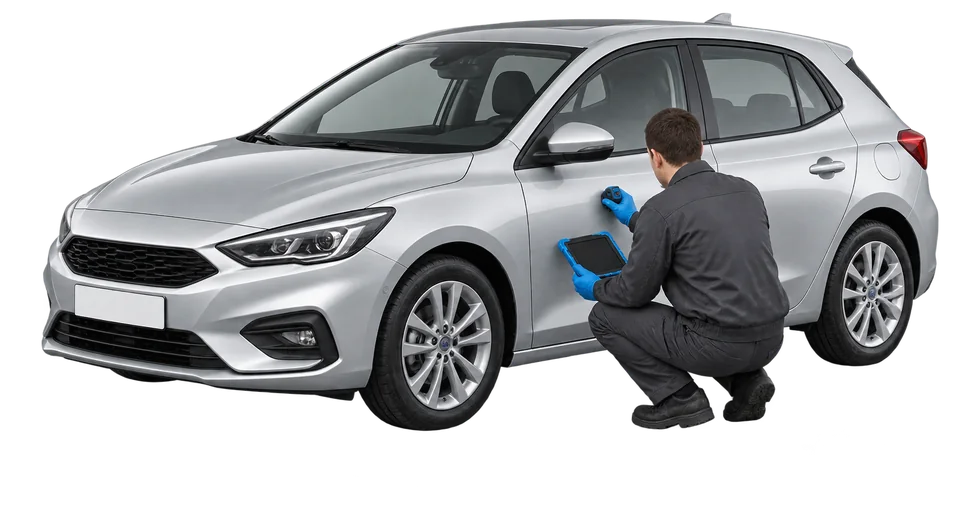
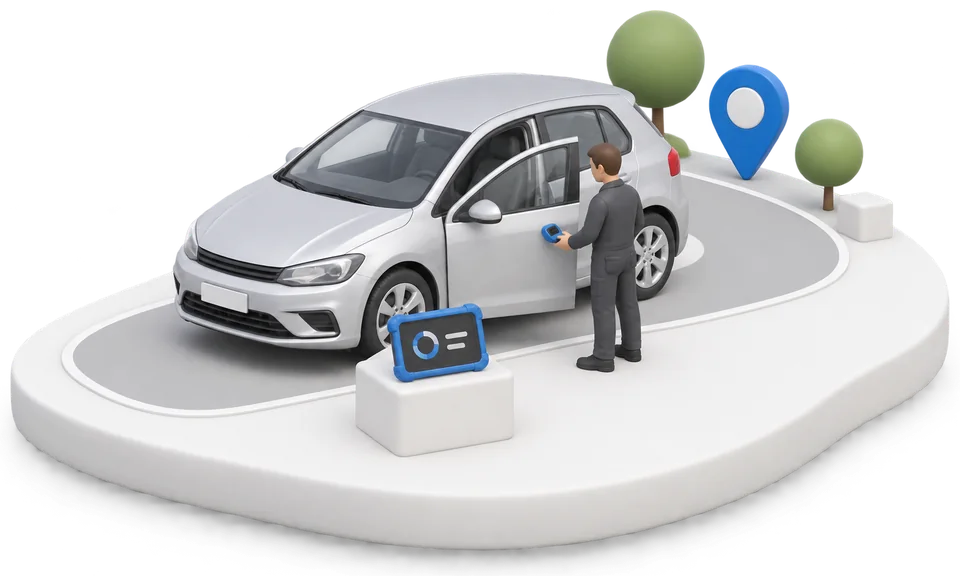
Use the services-page style for the homepage hero and offer art
Replace the photoreal hero and offer renders with isometric clay
dioramas that match the /paslaugos/ illustrations. Re-anchor the
leader line on the diagnostic tablet, let the odometer card overlap
only the platform's front rim, and move the scope hotspots onto the
new car's door, wheels and dashboard.

Claude-Session: https://claude.ai/code/session_01T7J35fzM6ZDxpdZVZvpdV4

diff --git a/index.html b/index.html
@@ -33,8 +33,8 @@
   <link rel="preload" href="/assets/fonts/Inter-latin-ext.woff2" as="font" type="font/woff2" crossorigin>
   <link rel="preload" href="/assets/fonts/Inter-latin.woff2" as="font" type="font/woff2" crossorigin>
 
-  <link rel="preload" href="/assets/images/home-hero.webp" as="image" type="image/webp" imagesrcset="/assets/images/home-hero-960.webp 960w, /assets/images/home-hero.webp 1536w" imagesizes="(min-width: 1000px) 47vw, (min-width: 700px) 692px, 100vw" fetchpriority="high">
-  <link rel="stylesheet" href="/css/styles.css?v=20261023-2">
+  <link rel="preload" href="/assets/images/home-hero.webp" as="image" type="image/webp" imagesrcset="/assets/images/home-hero-960.webp 960w, /assets/images/home-hero.webp 1486w" imagesizes="(min-width: 1000px) 47vw, (min-width: 700px) 692px, 100vw" fetchpriority="high">
+  <link rel="stylesheet" href="/css/styles.css?v=20261023-3">
   <script src="/js/cookie-consent.js?v=20261014-4"></script>
 
   <!-- Early language detection to prevent flash of wrong language -->
@@ -77,8 +77,8 @@
         </div>
 
         <div class="home-hero-art" data-hero-art>
-          <div class="home-hero-illustration" aria-hidden="true" data-anchor-x="61.5" data-anchor-y="48">
-            <img src="/assets/images/home-hero.webp" srcset="/assets/images/home-hero-960.webp 960w, /assets/images/home-hero.webp 1536w" sizes="(min-width: 1000px) 47vw, (min-width: 700px) 692px, 100vw" alt="" width="1536" height="843" fetchpriority="high" decoding="async">
+          <div class="home-hero-illustration" aria-hidden="true" data-anchor-x="45.2" data-anchor-y="60">
+            <img src="/assets/images/home-hero.webp" srcset="/assets/images/home-hero-960.webp 960w, /assets/images/home-hero.webp 1486w" sizes="(min-width: 1000px) 47vw, (min-width: 700px) 692px, 100vw" alt="" width="1486" height="892" fetchpriority="high" decoding="async">
           </div>
           <svg class="home-leader" aria-hidden="true" focusable="false" data-leader><path d=""/><circle r="5"/></svg>
 
@@ -209,11 +209,11 @@
         <div class="home-scope" data-scope>
           <h3 class="home-scope-title" data-i18n="home.offer.scope_title">Kas įeina už 100 €</h3>
           <div class="home-scope-stage">
-            <img src="/assets/images/home-scope-car.webp" srcset="/assets/images/home-scope-car-640.webp 640w, /assets/images/home-scope-car.webp 1200w" sizes="(min-width: 1000px) 570px, 100vw" alt="" width="1200" height="708" loading="lazy" decoding="async">
-            <span class="home-spot" style="--x: 62%; --y: 56%" data-spot="body" aria-hidden="true">1</span>
-            <span class="home-spot" style="--x: 45.5%; --y: 80%" data-spot="mechanics" aria-hidden="true">2</span>
-            <span class="home-spot" style="--x: 50%; --y: 29%" data-spot="electronics" aria-hidden="true">3</span>
-            <span class="home-spot" style="--x: 90.5%; --y: 59%" data-spot="drive" aria-hidden="true">4</span>
+            <img src="/assets/images/home-scope-car.webp" srcset="/assets/images/home-scope-car-640.webp 640w, /assets/images/home-scope-car.webp 1200w" sizes="(min-width: 1000px) 570px, 100vw" alt="" width="1200" height="726" loading="lazy" decoding="async">
+            <span class="home-spot" style="--x: 50.5%; --y: 49.5%" data-spot="body" aria-hidden="true">1</span>
+            <span class="home-spot" style="--x: 38.8%; --y: 62.6%" data-spot="mechanics" aria-hidden="true">2</span>
+            <span class="home-spot" style="--x: 35.4%; --y: 35.9%" data-spot="electronics" aria-hidden="true">3</span>
+            <span class="home-spot" style="--x: 66.3%; --y: 46.1%" data-spot="drive" aria-hidden="true">4</span>
             <div class="home-scope-report" aria-hidden="true" data-spot="report">
               <span class="home-spot home-spot--inline">5</span>
               <svg class="home-icon" width="20" height="20" viewBox="0 0 24 24"><path d="M14 3v4a1 1 0 0 0 1 1h4M17 21H7a2 2 0 0 1-2-2V5a2 2 0 0 1 2-2h7l5 5v11a2 2 0 0 1-2 2zM9 13h6M9 17h4"/></svg>

diff --git a/css/styles.css b/css/styles.css
@@ -5385,7 +5385,7 @@ html[lang="en"] .service-offer-body h2 {
   position: relative;
   z-index: 2;
   width: min(100%, 22.5rem);
-  margin-top: calc(var(--art-width) * -0.112);
+  margin-top: calc(var(--art-width) * -0.125);
   padding: 1.25rem 1.35rem 1.15rem;
   color: var(--color-text-inverse);
   background: var(--color-bg-dark);
